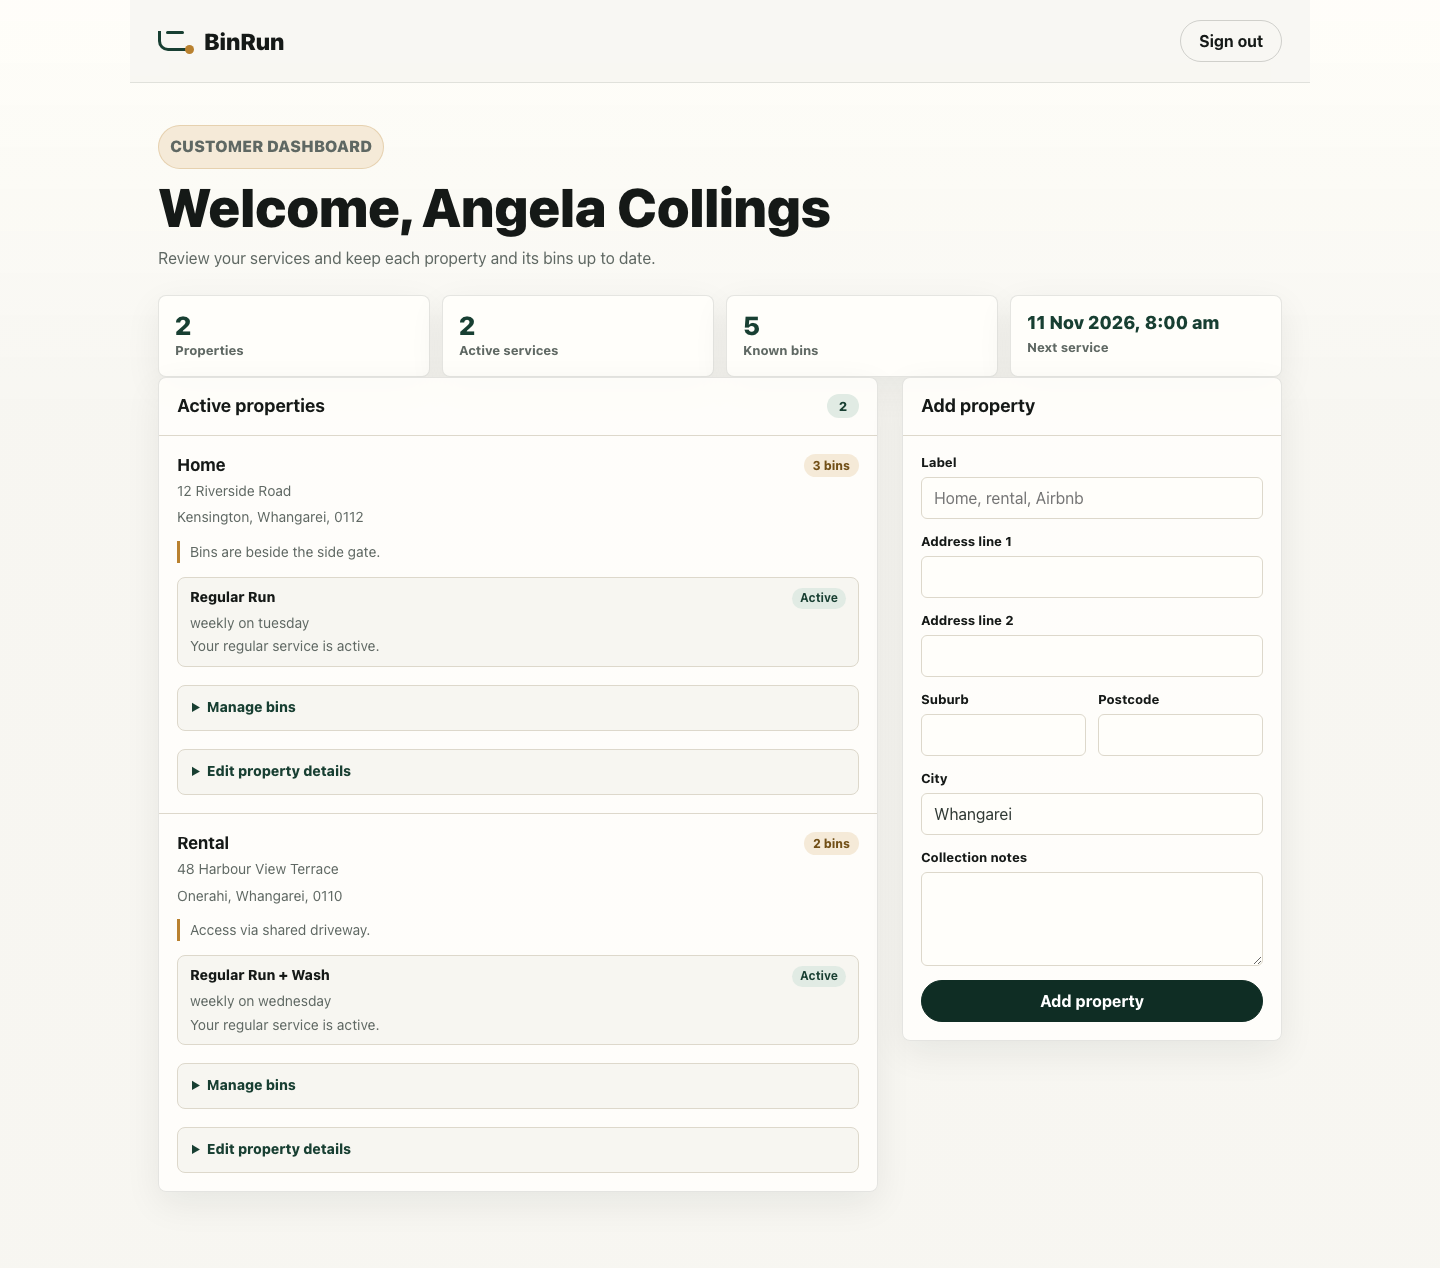
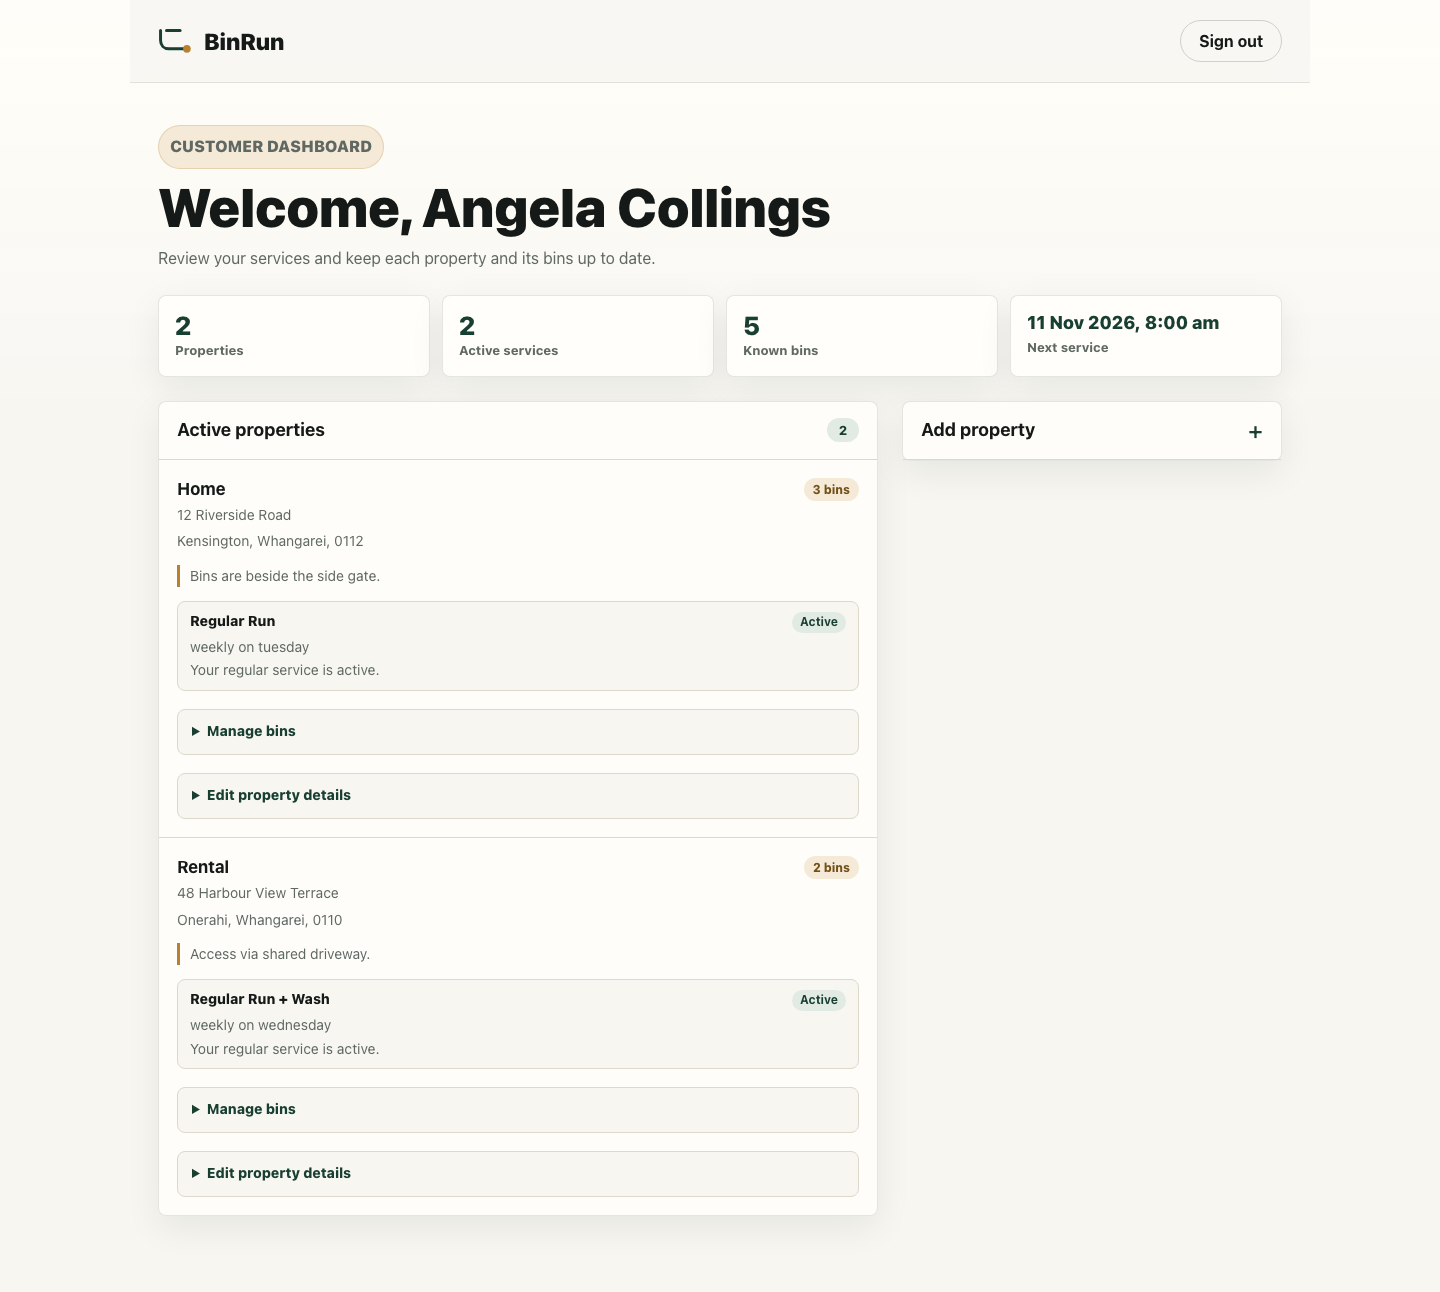
Refine customer dashboard layout

diff --git a/app/app.module.css b/app/app.module.css
@@ -85,6 +85,34 @@
   align-items: start;
 }
 
+.addPropertyPanel > summary {
+  cursor: pointer;
+  list-style: none;
+}
+
+.addPropertyPanel > summary::-webkit-details-marker {
+  display: none;
+}
+
+.disclosureIcon::before {
+  color: var(--color-forest);
+  content: '+';
+  display: block;
+  font-size: 24px;
+  font-weight: 500;
+  line-height: 1;
+}
+
+.addPropertyPanel[open] .disclosureIcon::before {
+  content: '−';
+}
+
+.addPropertyPanel > summary:focus-visible {
+  border-radius: var(--radius-card);
+  outline: 3px solid rgba(24, 63, 50, 0.22);
+  outline-offset: 2px;
+}
+
 .panel {
   border: 1px solid rgba(21, 25, 23, 0.11);
   border-radius: var(--radius-card);
@@ -116,6 +144,12 @@
   font-size: 13px;
   font-weight: 800;
   text-align: center;
+}
+
+.panelHeader .disclosureIcon {
+  min-width: 0;
+  padding: 0;
+  background: transparent;
 }
 
 .propertyList {
@@ -536,6 +570,7 @@
   display: grid;
   grid-template-columns: repeat(4, minmax(0, 1fr));
   gap: 12px;
+  margin-bottom: 24px;
 }
 
 .metricGrid div {
@@ -724,9 +759,12 @@
 
   .dashboardGrid,
   .fieldGrid,
-  .metricGrid,
   .runItem,
   .runStatusForm {
     grid-template-columns: 1fr;
+  }
+
+  .metricGrid {
+    grid-template-columns: repeat(2, minmax(0, 1fr));
   }
 }

diff --git a/app/dashboard/page.tsx b/app/dashboard/page.tsx
@@ -104,6 +104,7 @@ export default async function DashboardPage({ searchParams }: DashboardPageProps
     : params.properties
       ? errorPropertyStatuses.has(params.properties)
       : false;
+  const addPropertyOpen = params.properties === 'invalid' && params.propertyId === 'new';
 
   return (
     <Shell>
@@ -171,10 +172,11 @@ export default async function DashboardPage({ searchParams }: DashboardPageProps
           )}
         </div>
 
-        <aside className={styles.panel}>
-          <div className={styles.panelHeader}>
+        <details className={`${styles.panel} ${styles.addPropertyPanel}`} open={addPropertyOpen}>
+          <summary className={styles.panelHeader}>
             <h2>Add property</h2>
-          </div>
+            <span className={styles.disclosureIcon} aria-hidden="true" />
+          </summary>
           <form className={styles.propertyForm} action={createProperty}>
             <label>
               <span>Label</span>
@@ -270,7 +272,7 @@ export default async function DashboardPage({ searchParams }: DashboardPageProps
               Add property
             </button>
           </form>
-        </aside>
+        </details>
       </section>
     </Shell>
   );

diff --git a/tests/authenticated-flows.spec.ts b/tests/authenticated-flows.spec.ts
@@ -21,6 +21,13 @@ test('customer signs in, sees owned dashboard data, and cannot access admin rout
   await expect(page.getByRole('heading', { name: 'Active properties' })).toBeVisible();
   await expect(page.getByRole('heading', { name: 'Home' })).toBeVisible();
 
+  const addPropertyPanel = page.locator('details').filter({
+    has: page.getByRole('heading', { name: 'Add property' }),
+  });
+  await expect(addPropertyPanel).not.toHaveAttribute('open');
+  await addPropertyPanel.getByRole('heading', { name: 'Add property' }).click();
+  await expect(addPropertyPanel.getByLabel('Address line 1')).toBeVisible();
+
   await page.goto('/admin');
 
   await expect(page).toHaveURL(/\/dashboard$/);
